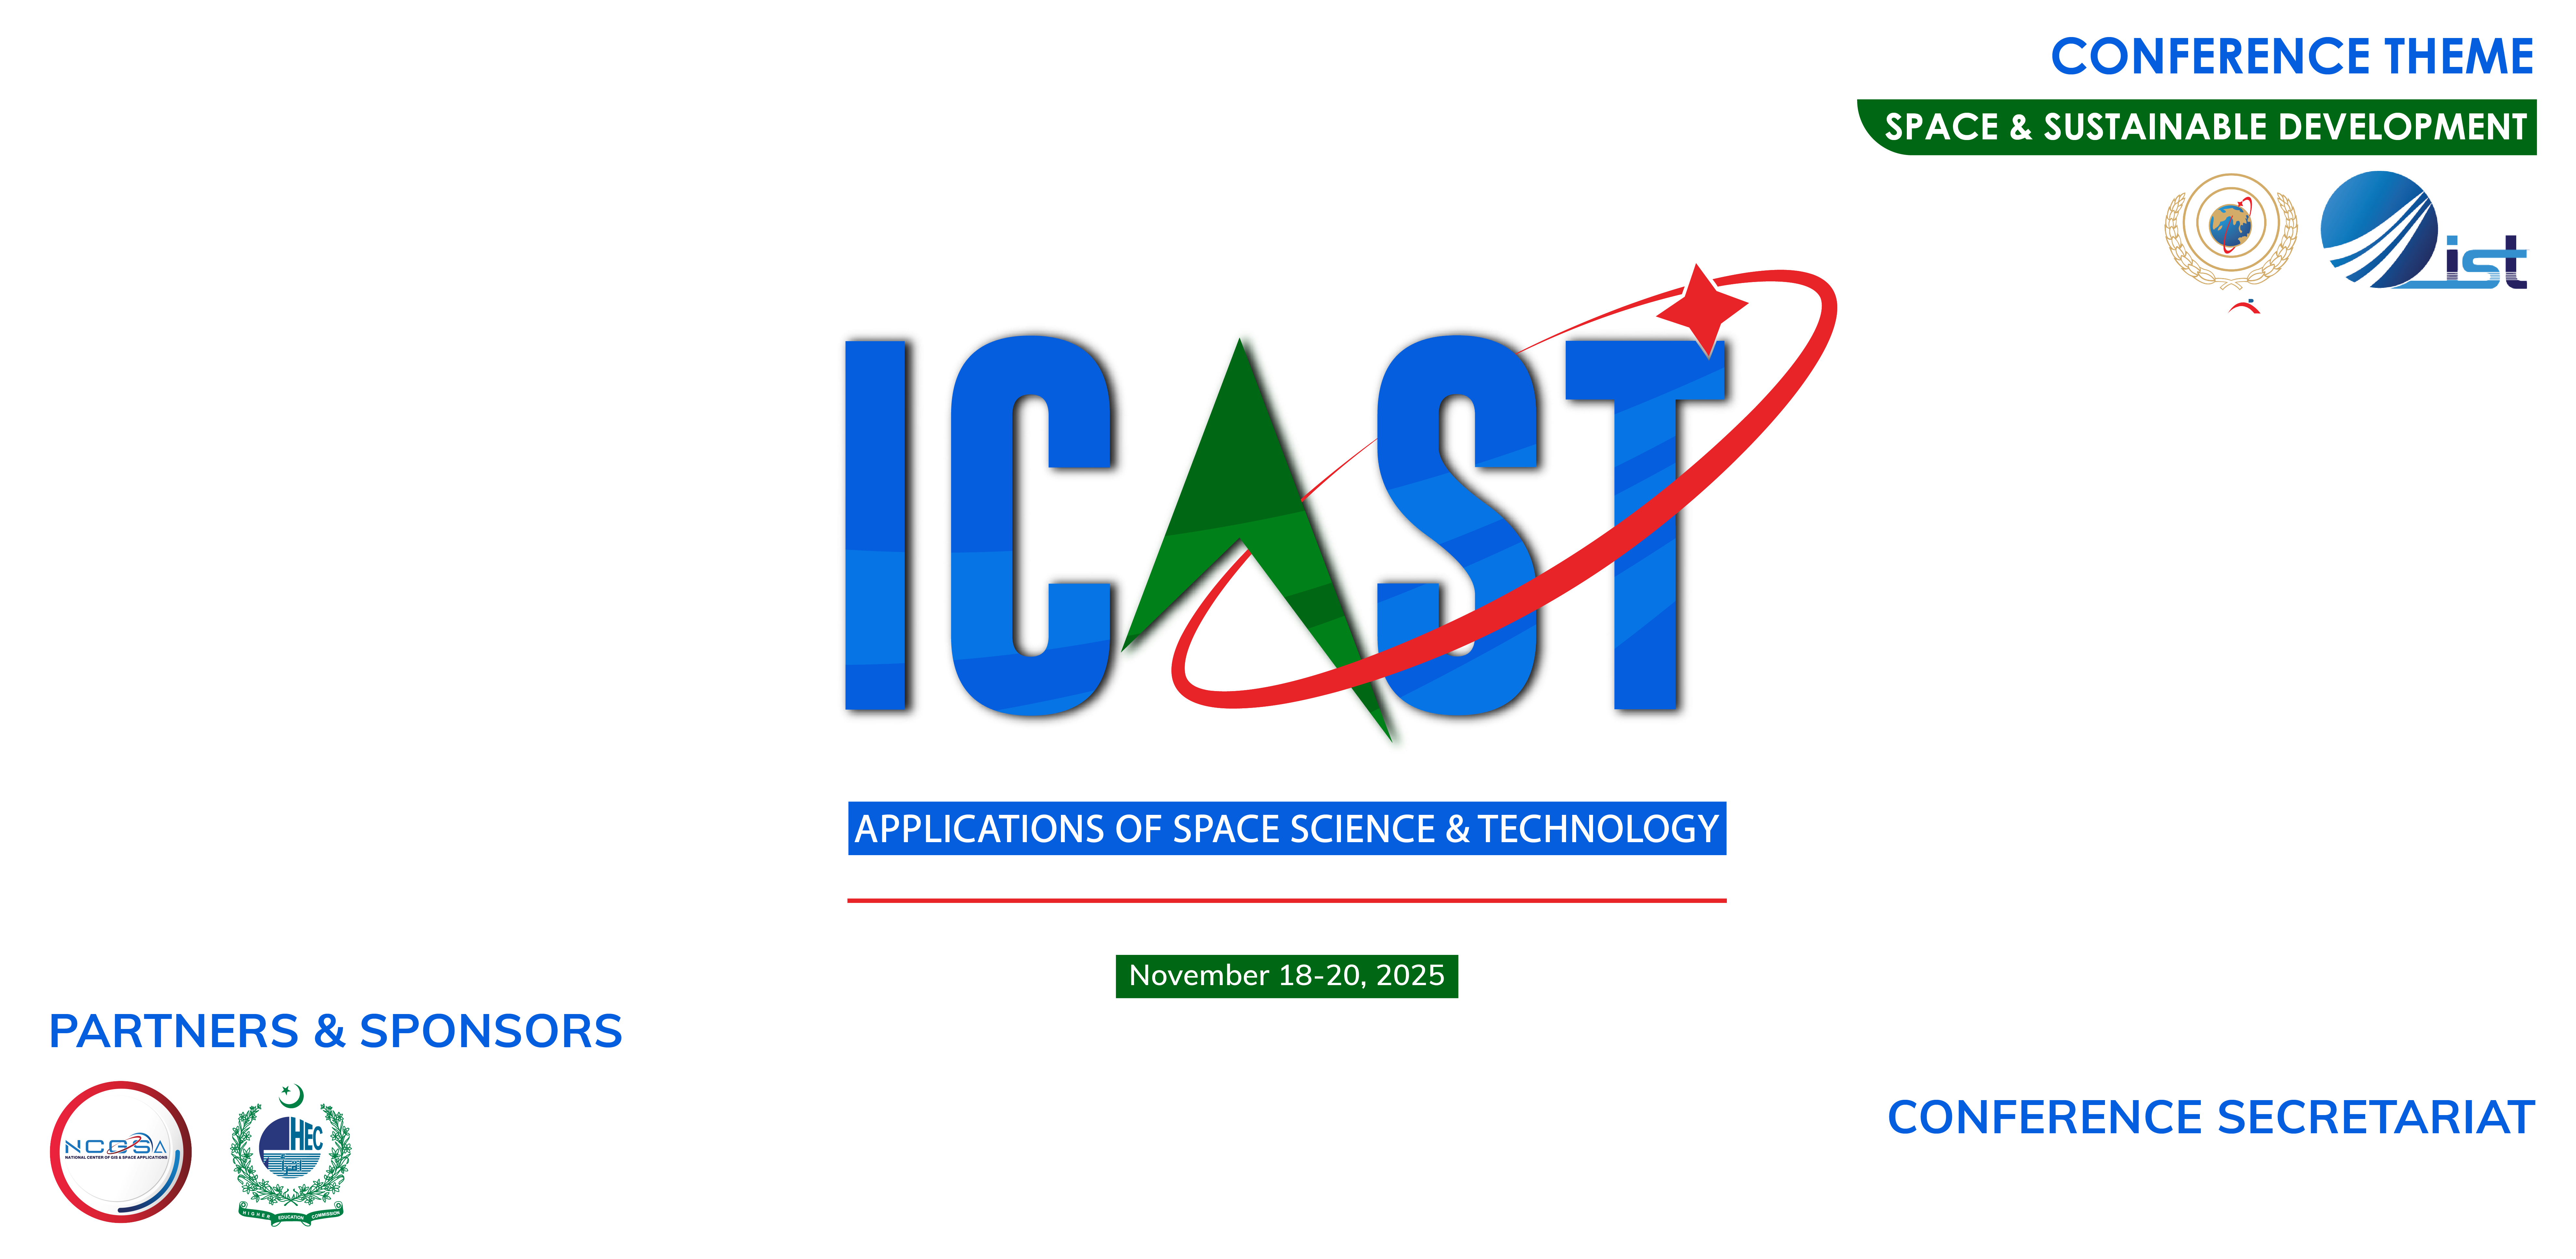
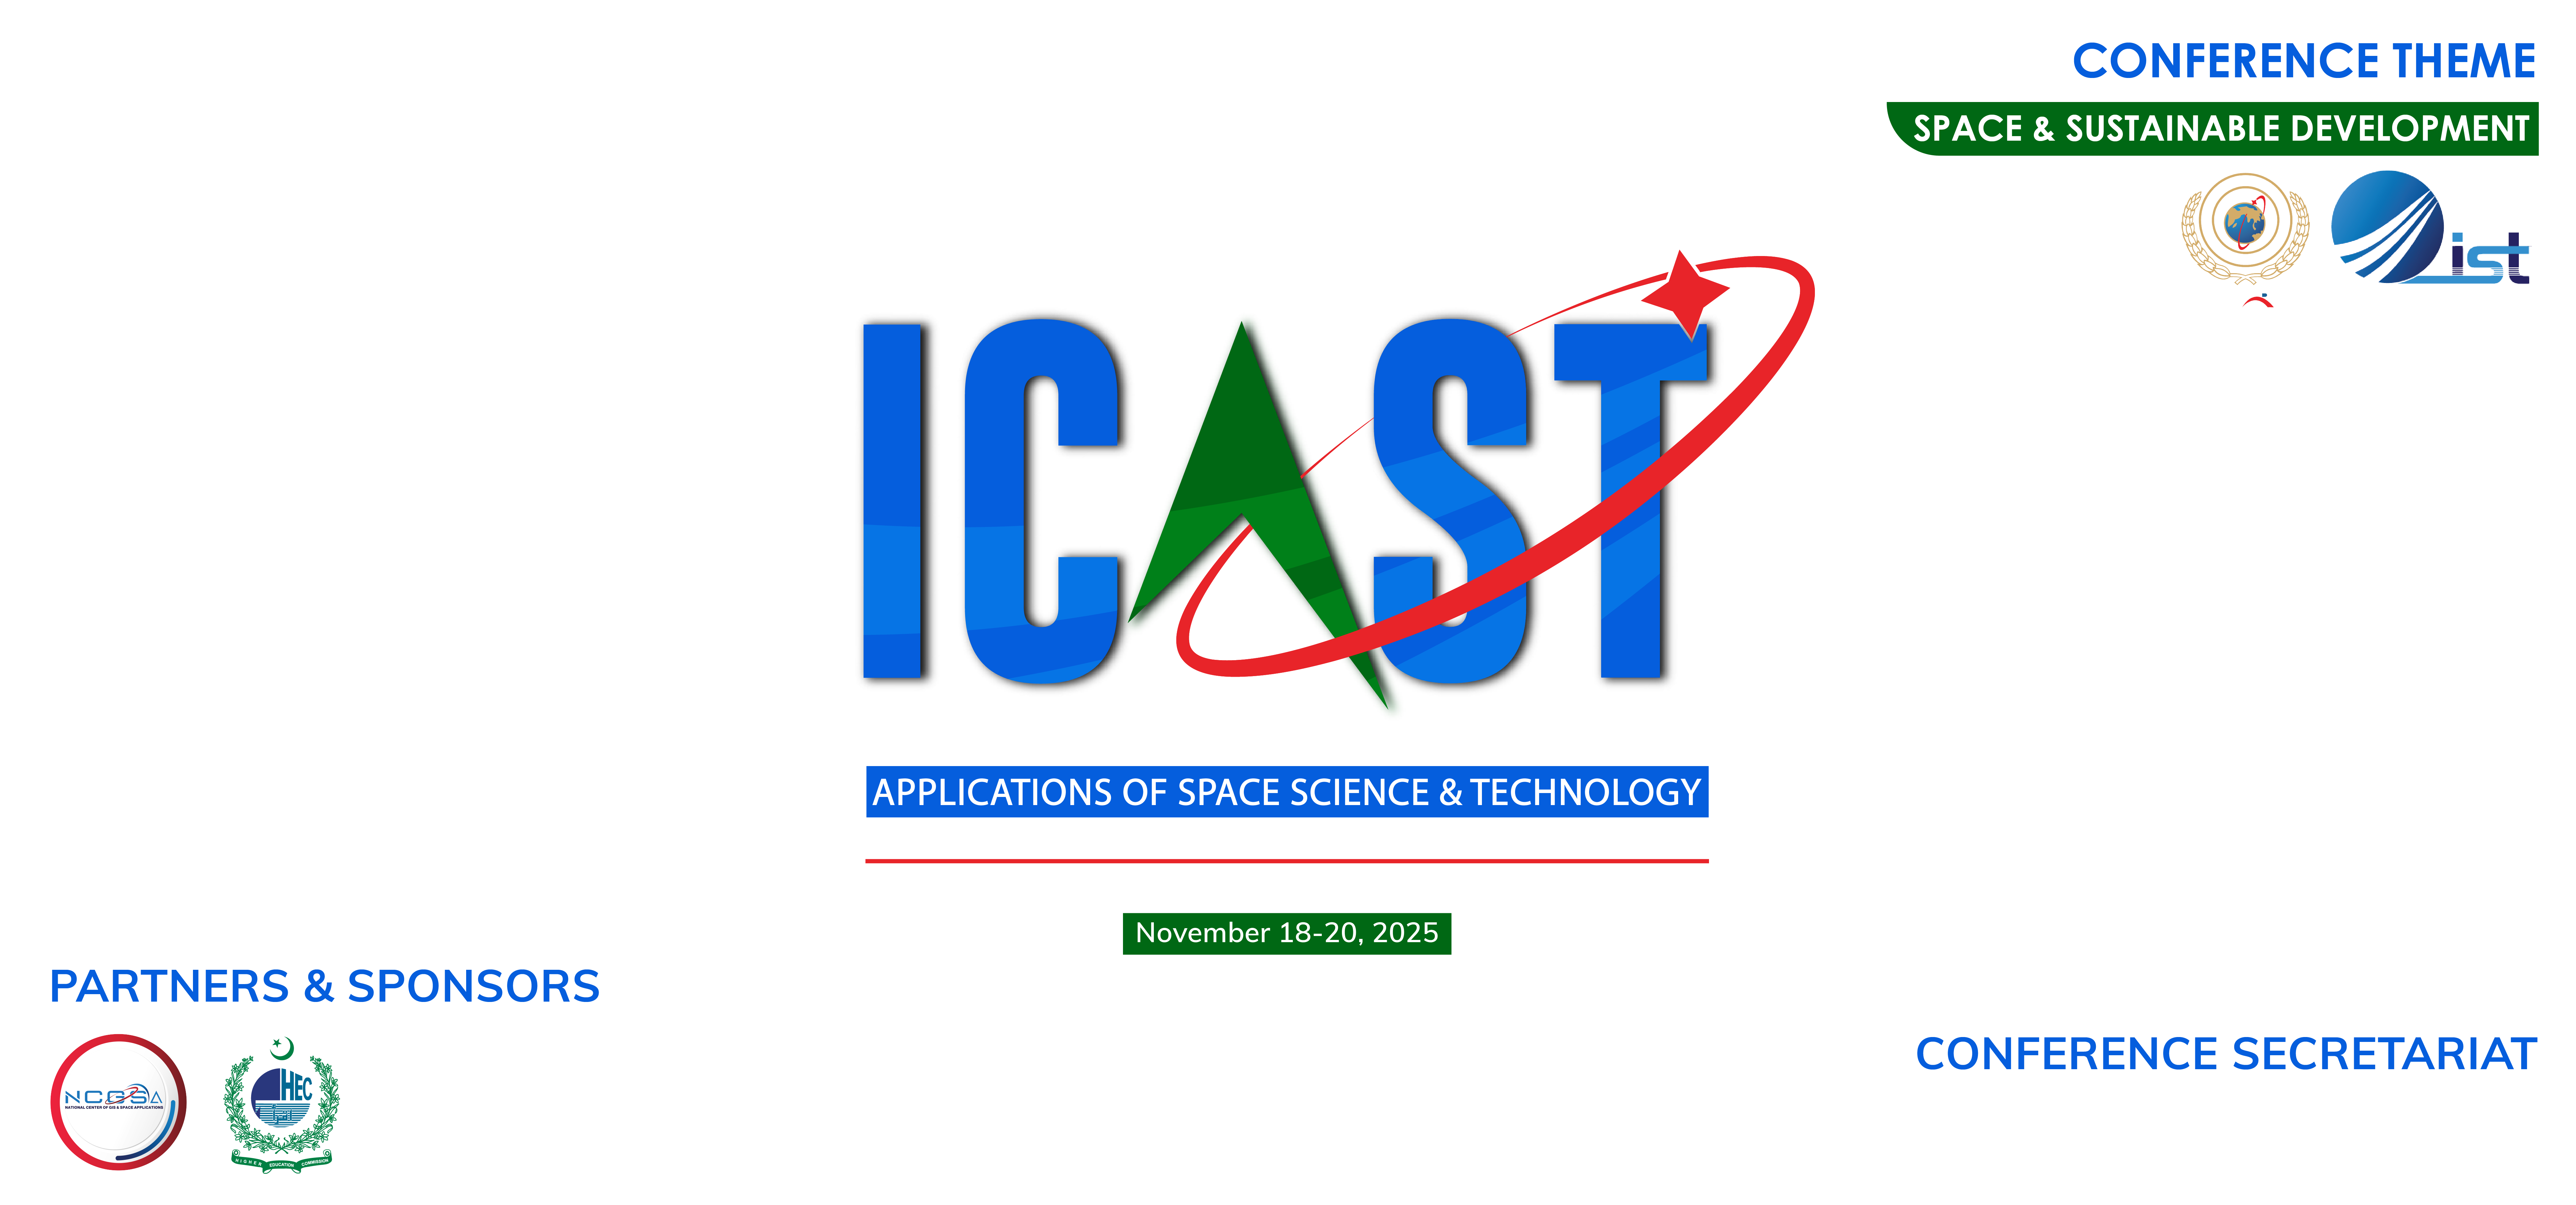
chnages

diff --git a/fe/src/Layouts/IcastFooter.js b/fe/src/Layouts/IcastFooter.js
@@ -10,7 +10,7 @@ import {
   YoutubeOutlined,
 } from '@ant-design/icons';
 import '../Styles/IcastFooterStyles.css';
-import footerLogo from '../Assets/icastf.png';
+import footerLogo from '../Assets/icastw.png';
 import suparcoLogo from '../Assets/suparco.png';
 import istLogo from '../Assets/ist-logo.png';
 
@@ -27,30 +27,31 @@ const Footer = () => {
         </Col>
         
         {/* Center Section: Contact Information */}
-        <Col xs={24} sm={8} md={8} style={{ textAlign: 'center' }}>
-          <Space direction='vertical'>
-            <Text style={{color:"white", fontSize:"20px"}}>NCGSA Secretariat</Text>
-            <Text style={{color:"white", fontSize:"20px"}}>Institute of Space Technology</Text>
-            <Text style={{color:"white", fontSize:"20px"}}>1, Islamabad Highway, Islamabad 44000</Text>
-            <Space direction="vertical" className="contact-info">
-              <Space>
-                <PhoneOutlined />
-                <Text style={{color:"white", fontSize:"20px"}}>[phone redacted]</Text>
-              </Space>
-              <Space>
-                <MailOutlined />
-                <Text style={{color:"white"}}>[email redacted]</Text>
-              </Space>
-            </Space>
-          </Space>
-        </Col>
+        <Col xs={24} sm={8} md={8}>
+  <Space align="start" direction="vertical">
+    <Text style={{ color: "white", fontSize: "20px" }}>NCGSA Secretariat</Text>
+    <Text style={{ color: "white", fontSize: "20px" }}>Institute of Space Technology</Text>
+    <Text style={{ color: "white", fontSize: "20px" }}>1, Islamabad Highway, Islamabad 44000</Text>
+    <Space direction="vertical" align="start"> 
+      <Space>
+        <MailOutlined />
+        <Text style={{ color: "white", fontSize: "20px" }}>[email redacted]</Text>
+      </Space>
+      <Space>
+        <PhoneOutlined />
+        <Text style={{ color: "white", fontSize: "20px" }}>[phone redacted]</Text>
+      </Space>
+    </Space>
+  </Space>
+</Col>
+
 
         {/* Right Section: Partner Logos and Social Media Links */}
         <Col xs={24} sm={8} md={8} style={{ textAlign: 'center' }}>
           <Space direction='vertical'>
             <Space className="partner-logos">
-              <Image src={suparcoLogo} alt="SUPARCO Logo" preview={false} className="partner-logo" />
-              <Image src={istLogo} alt="IST Logo" preview={false} className="partner-logo" />
+              <img src={suparcoLogo} alt="SUPARCO Logo" preview={false} className="partner-logo" />
+              <img src={istLogo} alt="IST Logo" preview={false} className="partner-logo" />
             </Space>
             <Space className="social-media-icons">
               <Link href="#" target="_blank"><TwitterOutlined /></Link>

diff --git a/fe/src/Layouts/IcastHeader.js b/fe/src/Layouts/IcastHeader.js
@@ -9,7 +9,6 @@ const IcastHeader = () => {
   const screens = useBreakpoint();
   const logoWidth = screens.lg ? 380 : screens.md ? 250 : 250;
 
-
   const [isMobileMenuOpen, setIsMobileMenuOpen] = useState(false);
 
   const handleMenuToggle = () => {
@@ -23,25 +22,21 @@ const IcastHeader = () => {
   return (
     <header className="header">
       <div className="logo">
-        <Image src={logo} width={logoWidth} alt="ICAST Logo" className="logo-image" />
+        <Image preview={false} src={logo} width={logoWidth} alt="ICAST Logo" className="logo-image" />
       </div>
 
       {/* Background bar for the menu with tilt */}
       <div className="menu-background">
-      <nav className="desktop-menu">
-        <Link to="/about" className="menu-link">ABOUT ICAST</Link>
-        <Link to="/themes" className="menu-link">CONFERENCE THEMES</Link>
-        <Link to="/content" className="menu-link">CALL FOR CONTENT</Link>
-        <Link to="/registration" className="menu-link">REGISTRATION PORTAL</Link>
-        <Link to="/sponsors" className="menu-link">EXPOSTION & SPONSORS</Link>
-        {/* <Link to="/program" className="menu-link">PROGRAMME</Link> */}
-        <Link to="/download" className="menu-link">DOWNLOADS & MANUALS</Link>
-      </nav>
-
+        <nav className="desktop-menu">
+          <Link to="/about" className="menu-link">ABOUT ICAST</Link>
+          <Link to="/themes" className="menu-link">CONFERENCE THEMES</Link>
+          <Link to="/content" className="menu-link">CALL FOR CONTENT</Link>
+          <Link to="/registration" className="menu-link">REGISTRATION PORTAL</Link>
+          <Link to="/sponsors" className="menu-link">EXPOSITION & SPONSORS</Link>
+          <Link to="/download" className="menu-link">DOWNLOADS & MANUALS</Link>
+        </nav>
       </div>
 
-      {/* Desktop Menu */}
-     
       {/* Mobile Menu Toggle Button */}
       <button className="menu-icon" onClick={handleMenuToggle}>
         ☰

diff --git a/fe/src/Components/SpeakerCards.js b/fe/src/Components/SpeakerCards.js
@@ -29,25 +29,25 @@ const SpeakerCards = () => {
     {
       name: "Eleanor Pena",
       title: "TechPartners",
-      imageUrl: image1,
+      imageUrl: '/images/pic1.png',
       linkedin: true,
     },
     {
       name: "Esther Howard",
       title: "Binford Ltd.",
-      imageUrl: image2,
+      imageUrl: '/images/pic2.png',
       linkedin: false,
     },
     {
       name: "Esther Howard",
       title: "Binford Ltd.",
-      imageUrl: image3,
+      imageUrl: '/images/pic3.png',
       linkedin: false,
     },
     {
       name: "Marvin McKinney",
       title: "Big Kahuna Burger Ltd.",
-      imageUrl: image4,
+      imageUrl: '/images/pic4.png',
       linkedin: false,
     },
   ];

diff --git a/fe/src/Styles/IcaseHeaderStyles.css b/fe/src/Styles/IcaseHeaderStyles.css
@@ -5,7 +5,10 @@
   justify-content: space-between;
   padding: 40px 30px;
   background-color: #272B3A;
-  position: relative;
+  position: sticky; /* Make header sticky */
+  top: 0; /* Stick to the top of the page */
+  z-index: 100; /* Ensure header stays above other elements */
+  width: 100%;
 }
 
 /* Logo and Event Information Section */
@@ -48,9 +51,6 @@
   z-index: 1; /* Place behind menu items */
   clip-path: polygon(2% 0, 100% 0, 100% 100%, 0% 100%); /* Slight tilt from the left */
 }
-
-
-
 
 /* Desktop Menu Styling */
 .desktop-menu {

diff --git a/fe/public/index.html b/fe/public/index.html
@@ -2,14 +2,14 @@
 <html lang="en">
   <head>
     <meta charset="utf-8" />
-    <link rel="icon" href="%PUBLIC_URL%/favicon.ico" />
+    <!-- <link rel="icon" href="%PUBLIC_URL%/favicon.ico" /> -->
     <meta name="viewport" content="width=device-width, initial-scale=1" />
     <meta name="theme-color" content="#000000" />
     <meta
       name="description"
       content="Web site created using create-react-app"
     />
-    <link rel="apple-touch-icon" href="%PUBLIC_URL%/logo192.png" />
+    <!-- <link rel="apple-touch-icon" href="%PUBLIC_URL%/logo192.png" /> -->
     <!--
       manifest.json provides metadata used when your web app is installed on a
       user's mobile device or desktop. See https://developers.google.com/web/fundamentals/web-app-manifest/
@@ -24,7 +24,7 @@
       work correctly both with client-side routing and a non-root public URL.
       Learn how to configure a non-root public URL by running `npm run build`.
     -->
-    <title>React App</title>
+    <title>ICAST - International Conference On Applications Of Space and Technology</title>
   </head>
   <body>
     <noscript>You need to enable JavaScript to run this app.</noscript>

diff --git a/fe/src/Styles/IcastFooterStyles.css b/fe/src/Styles/IcastFooterStyles.css
@@ -1,5 +1,5 @@
 .footer-container {
-  background-color: #1a1a1a !important; /* Dark background similar to image */
+  background-color: #272B3A !important; /* Dark background similar to image */
   padding: 40px 20px !important;
   color: #ffffff !important;
   max-width: 100% !important;
@@ -12,7 +12,7 @@
 }
 
 .icast-logo {
-  width: 200px !important; /* Adjusted width based on the image */
+  width: 300px !important; /* Adjusted width based on the image */
 }
 
 .footer-title {

diff --git a/fe/src/Components/Sponsors.js b/fe/src/Components/Sponsors.js
@@ -38,7 +38,6 @@ const Sponsors = () => {
           fontWeight: "bold",
           textAlign: "center",
           color: "black",
-          textDecoration: "underline",
         }}
       >
         Executive Sponsors
@@ -49,6 +48,7 @@ const Sponsors = () => {
             <Card className="sponsor-card" hoverable>
               <div className="sponsor-logo">
                 <Image
+                preview={false}
                   width={200}
                   src={sponsor.logo}
                   alt={`${sponsor.name} logo`}

diff --git a/fe/src/Styles/EventCarousel.css b/fe/src/Styles/EventCarousel.css
@@ -1,6 +1,6 @@
 .event-carousel-container {
     background-color: white;
-    padding: 50px 0; /* Remove padding from left and right */
+    padding: 70px 0; /* Remove padding from left and right */
     width: 100%; /* Full width */
     display: flex;
     align-items: center;

diff --git a/fe/src/Styles/SponsorStyles.css b/fe/src/Styles/SponsorStyles.css
@@ -1,6 +1,6 @@
 .sponsors-container {
     text-align: center;
-    padding: 20px;
+    padding:  80px 20px;
     background-color: #ffffff;
   }
   